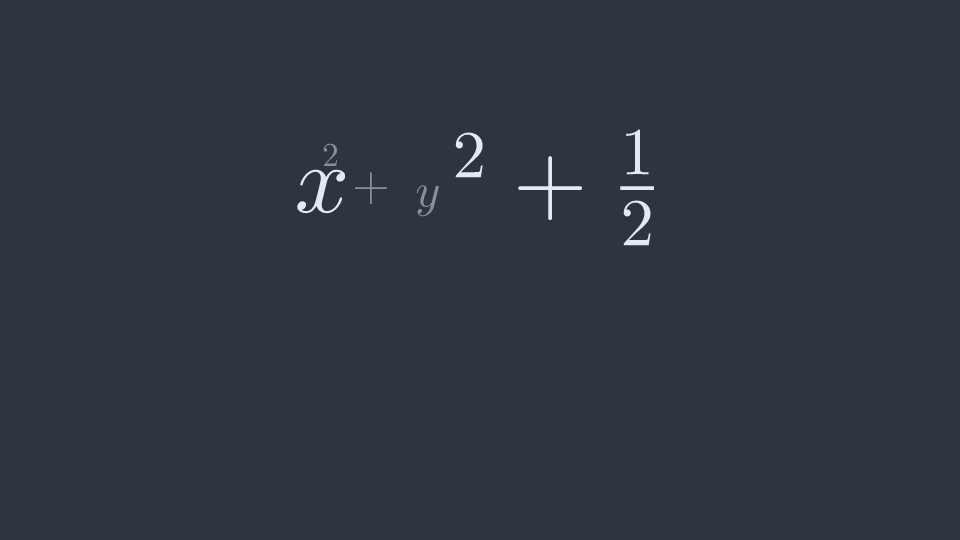
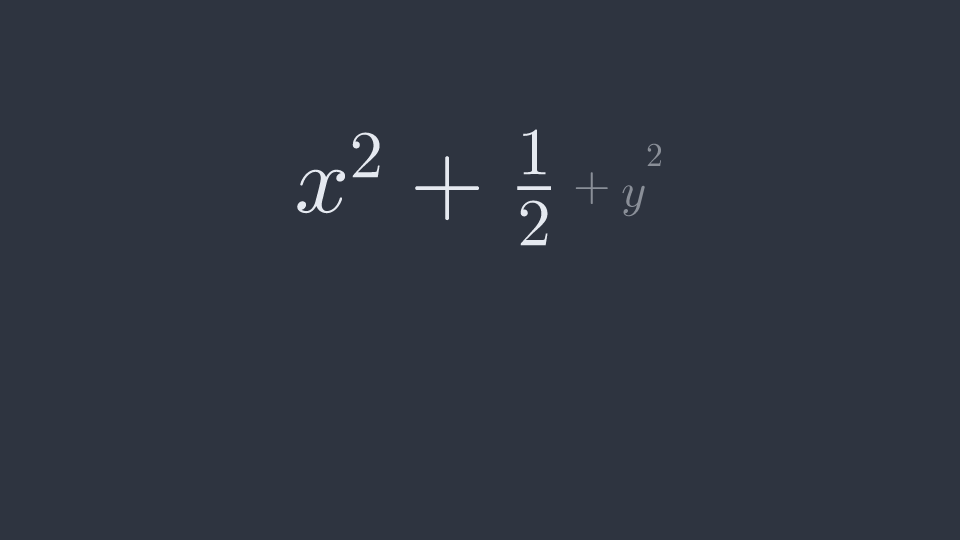
Evidence: the fixture's grow step now appends a term
Claude-Session: https://claude.ai/code/session_01WZjKMKqdiJ611ayHwBvcZH

Changed region(s): [[0.5312, 0.237, 0.6875, 0.4741], [0.4375, 0.237, 0.5, 0.4148], [0.3438, 0.237, 0.4062, 0.3556]]

diff --git a/README.md b/README.md
@@ -1,4 +1,4 @@
 Evidence images for the maths lettering PR (issue #8). Not code; never merged.
 
 - maths-fixture-steps.png: `npm run explain -- shots test/lettering/math/scene.ts`, the four resting pictures of the maths fixture on claude/lettering-maths.
-- grow-mid-main.png and grow-mid-branch.png: the middle frame (alpha 0.5) of TransformMatchingText from x^2+\frac{1}{2} to x^2+y^2+\frac{1}{2}, drawn by main (af83c9a) and by the branch, both from the branch's maths snapshot, at fontSize 1.6, 960 px wide, by resvg 2.6.2 with no system fonts.
+- grow-mid-main.png and grow-mid-branch.png: the middle frame (alpha 0.5) of TransformMatchingText from x^2+\frac{1}{2} to x^2+\frac{1}{2}+y^2 (the fixture's grow step), drawn by main (af83c9a) and by the branch, both from the branch's maths snapshot, at fontSize 1.6, 960 px wide, by resvg 2.6.2 with no system fonts.
